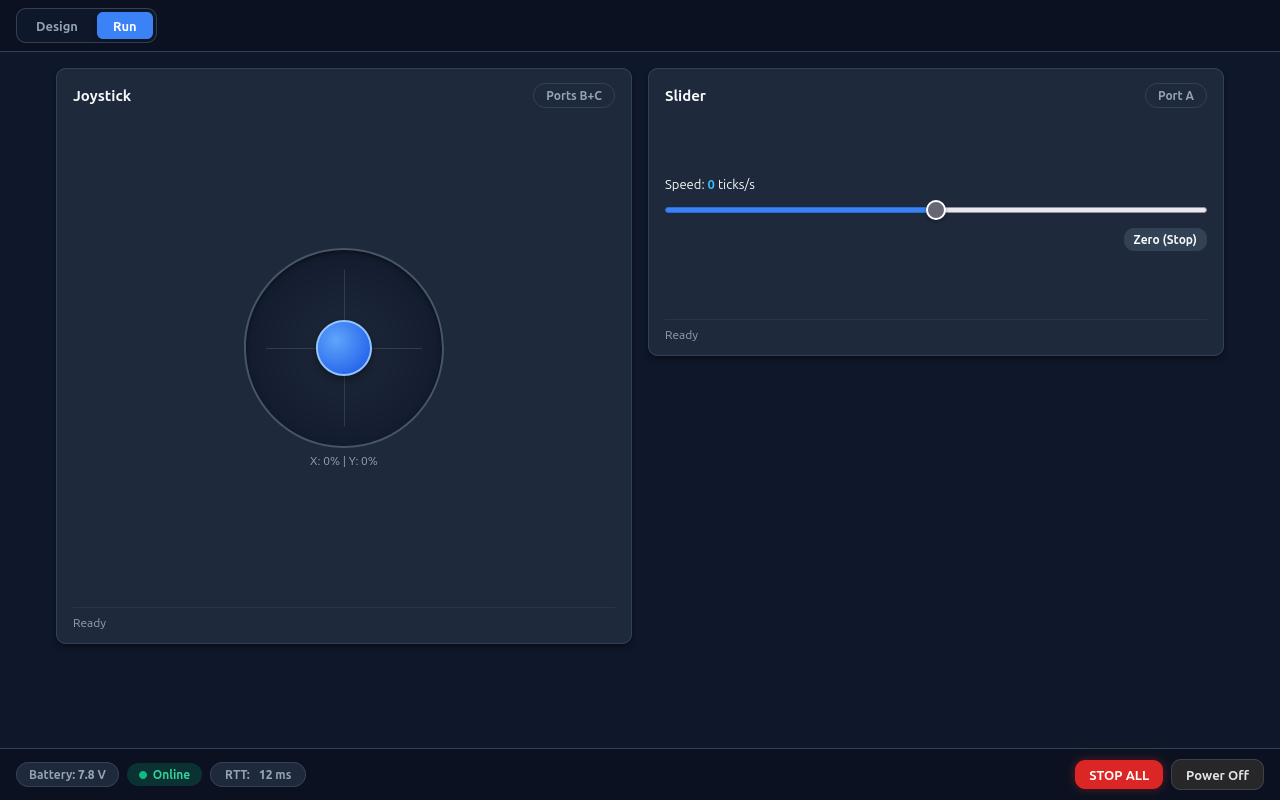
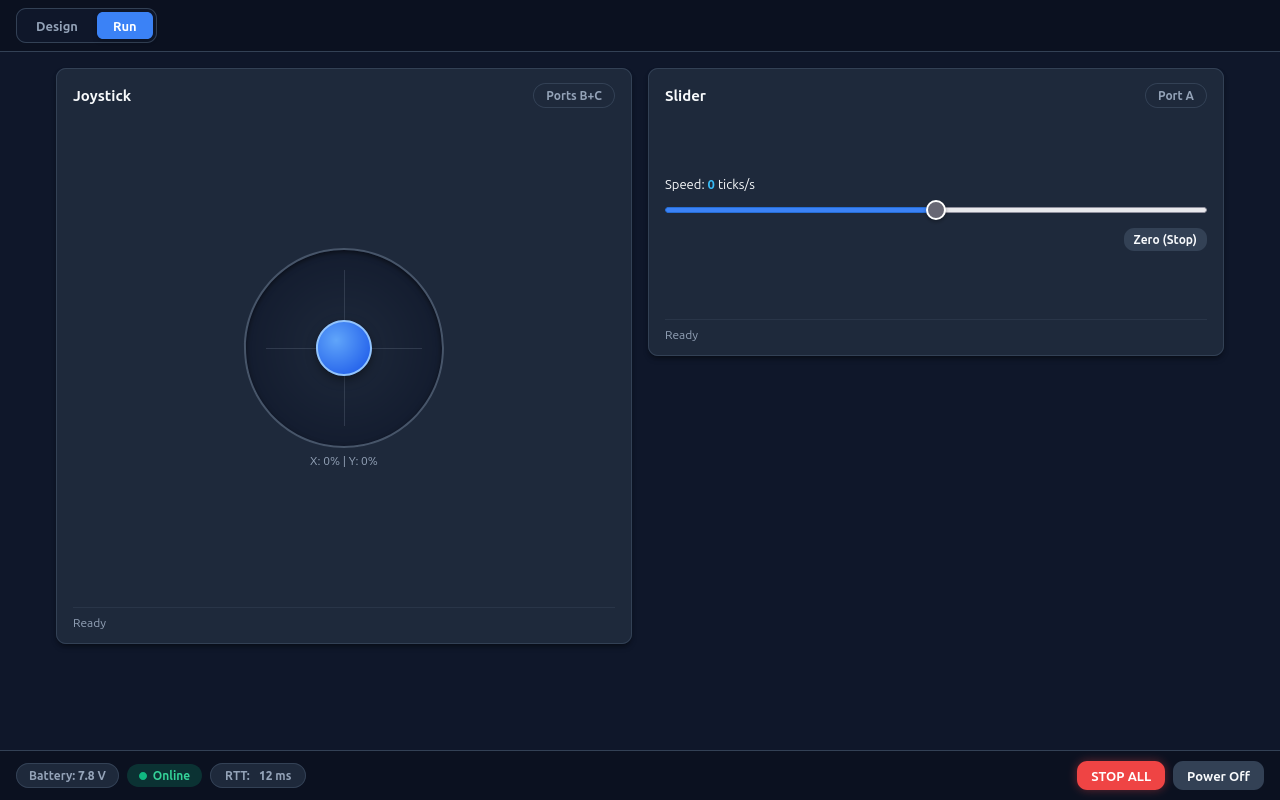
docs(screenshots): regenerate screenshots after full codebase deduplication

Changed region(s): [[0.8438, 0.9375, 1.0, 1.0], [0.125, 0.9375, 0.2188, 1.0], [0.0312, 0.9375, 0.0938, 1.0]]

diff --git a/PROJECT_PLAN.md b/PROJECT_PLAN.md
@@ -743,7 +743,14 @@ Any agent implementing Phase 7, Phase 8, and `BUG-14` through `BUG-47` must foll
   - Removed "Max Speed" inputs from widgets; hardcoded standard EV3 range (`-1000..1000` ticks/s for slider, `1000` vector clamp for joystick, `600` default for buttons).
   - Removed redundant "Reset Defaults" button from design toolbar.
   - Retained "Zero (Stop)" button beside slider and diagnostics drawer.
-  - Re-captured and updated all desktop and mobile screenshots.
+- [x] **Step 13.7: Systematic Codebase Deduplication & Metric Verification**
+  - Removed redundant button CSS classes (`.btn-estop`, `.btn-shutdown`) across HTML and CSS.
+  - Extracted shared port name arrays and address parsers into single source of truth in `src/web/handlers.rs`.
+  - Removed phantom keyboard drive controls and deduplicated setup quickstart in documentation.
+  - Harmonized template styling and eliminated inline CSS in `web_assets/index.html`.
+  - Replaced unverified performance claims with factual architectural design in `README.md` and `docs/architecture.md`.
+  - Re-captured and updated all desktop and mobile screenshots after deduplication.
+
 
 
 
